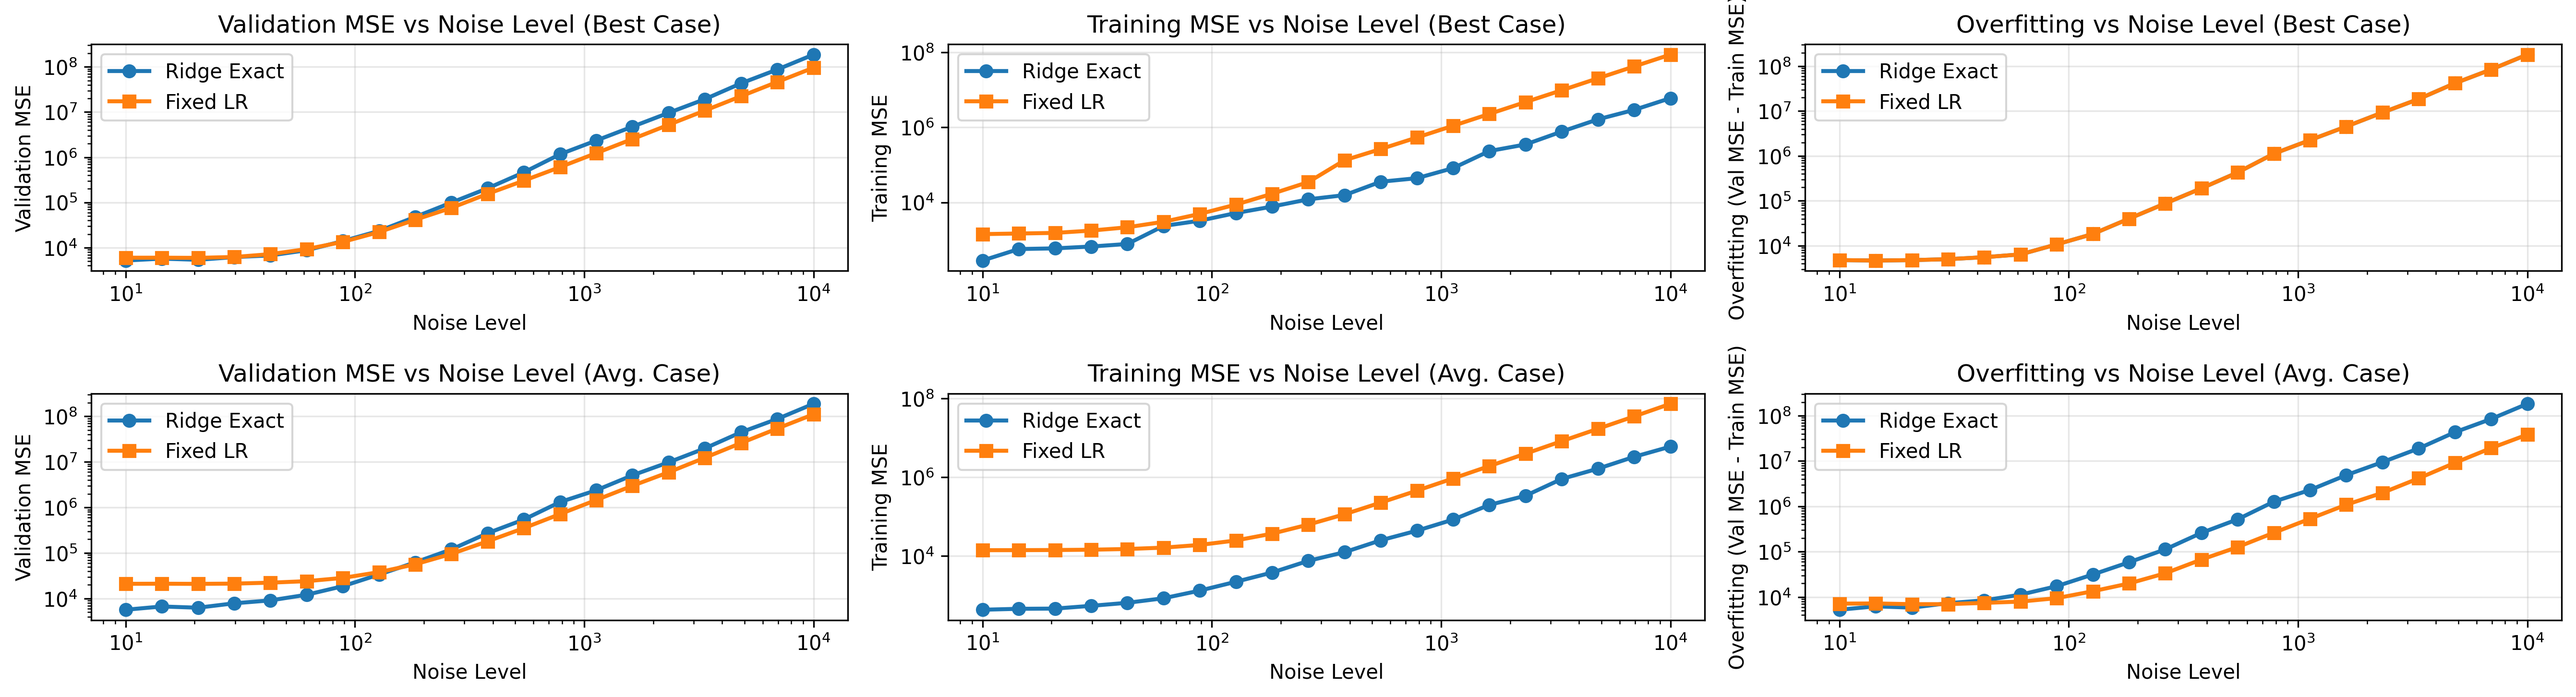
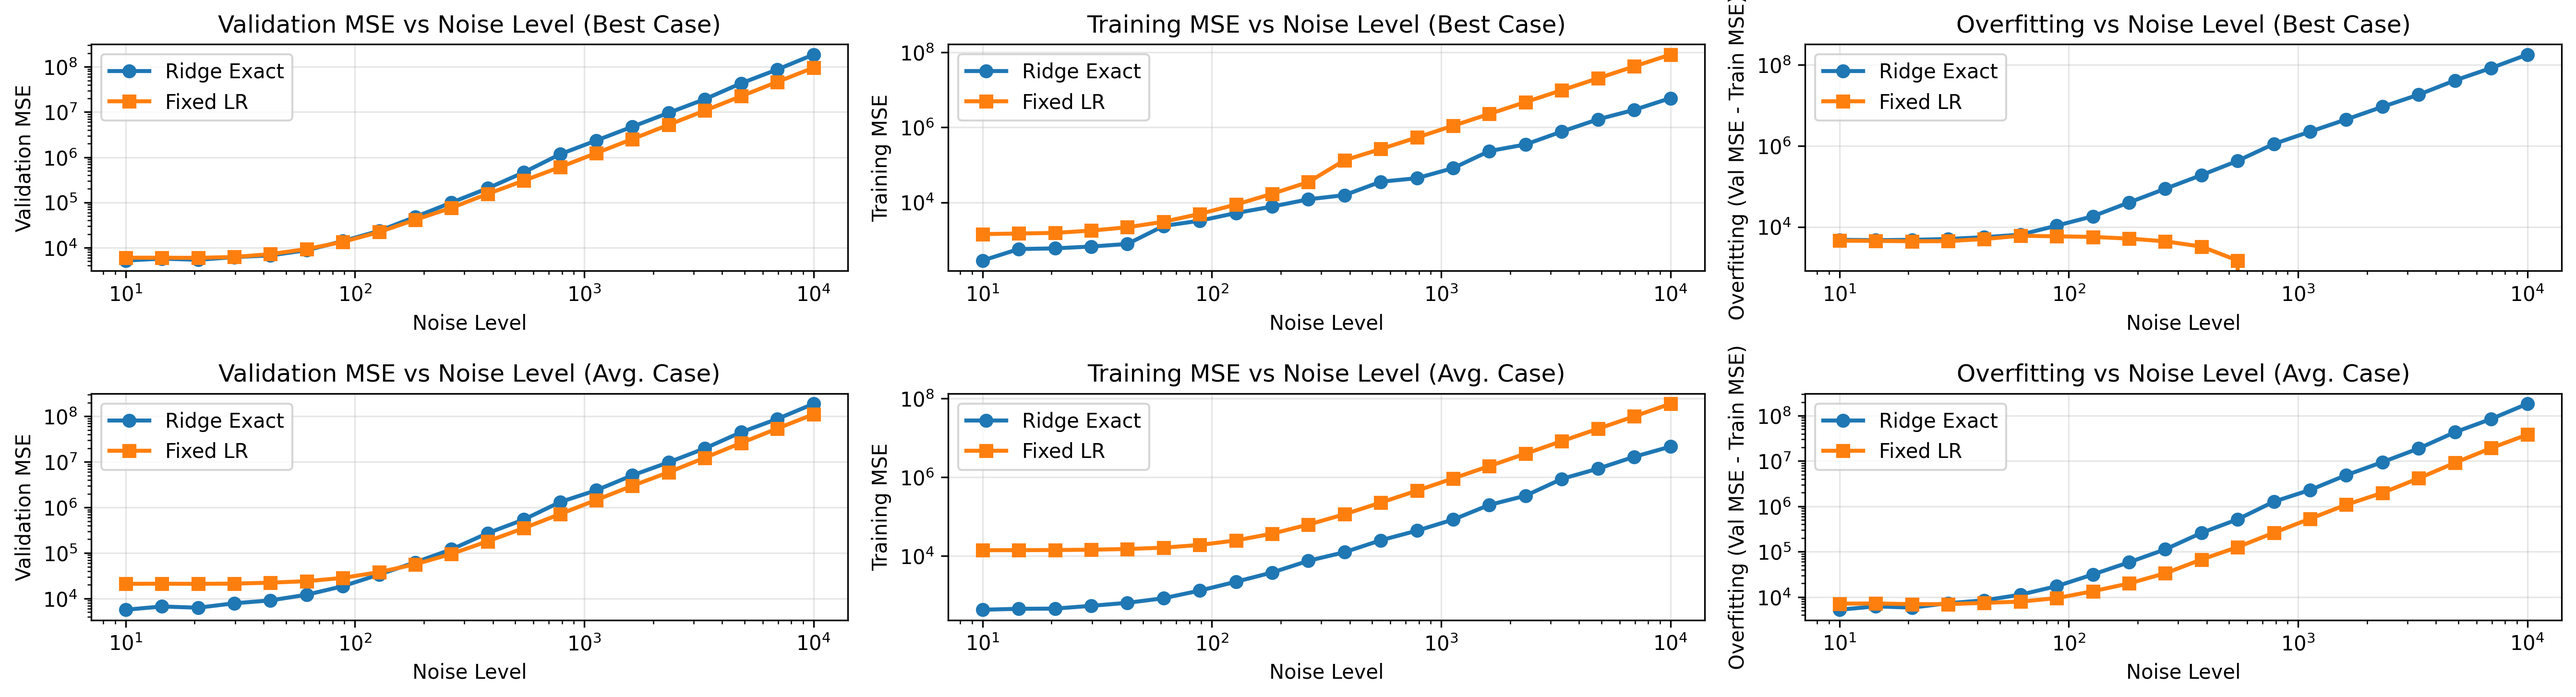
bugfix and requirements file update

Changed region(s): [[0.6847, 0.186, 0.9025, 0.4029], [0.9025, 0.062, 0.9959, 0.186]]

diff --git a/noise_analysis.py b/noise_analysis.py
@@ -56,7 +56,7 @@ def process_results(results, noise_values, lambda_values, learning_rates):
             processed['fixed_lr']['noise'].append(noise)
             processed['fixed_lr']['train_mse_best'].append(best_result['train_mse'])
             processed['fixed_lr']['val_mse_best'].append(best_result['val_mse'])
-            best_overfitting = min([x['val_mse'] - x['train_mse'] for x in ridge_by_noise[noise]])
+            best_overfitting = min([x['val_mse'] - x['train_mse'] for x in lr_by_noise[noise]])
             processed['fixed_lr']['overfitting_best'].append(
                 best_overfitting
             )
